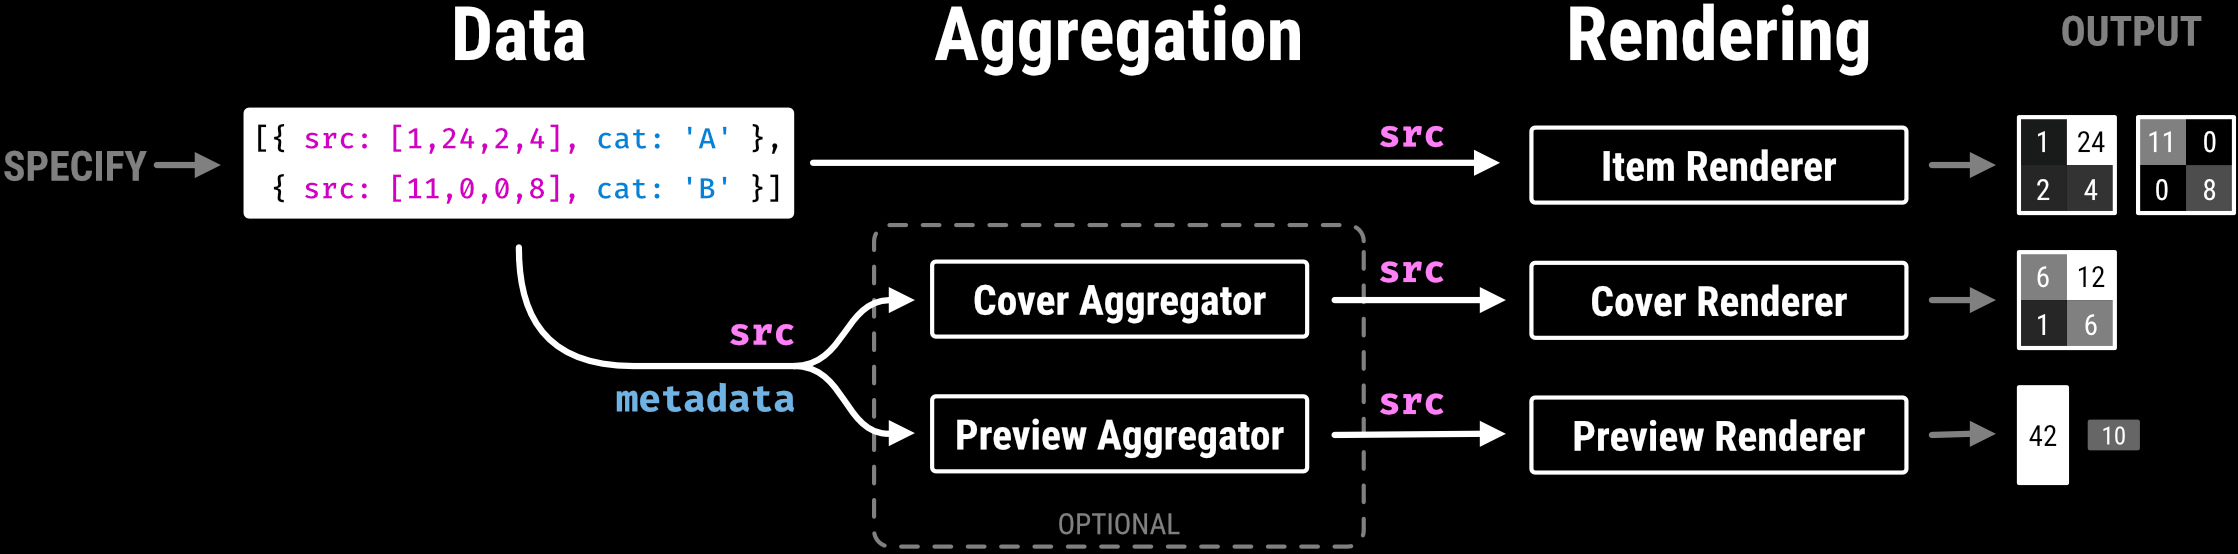
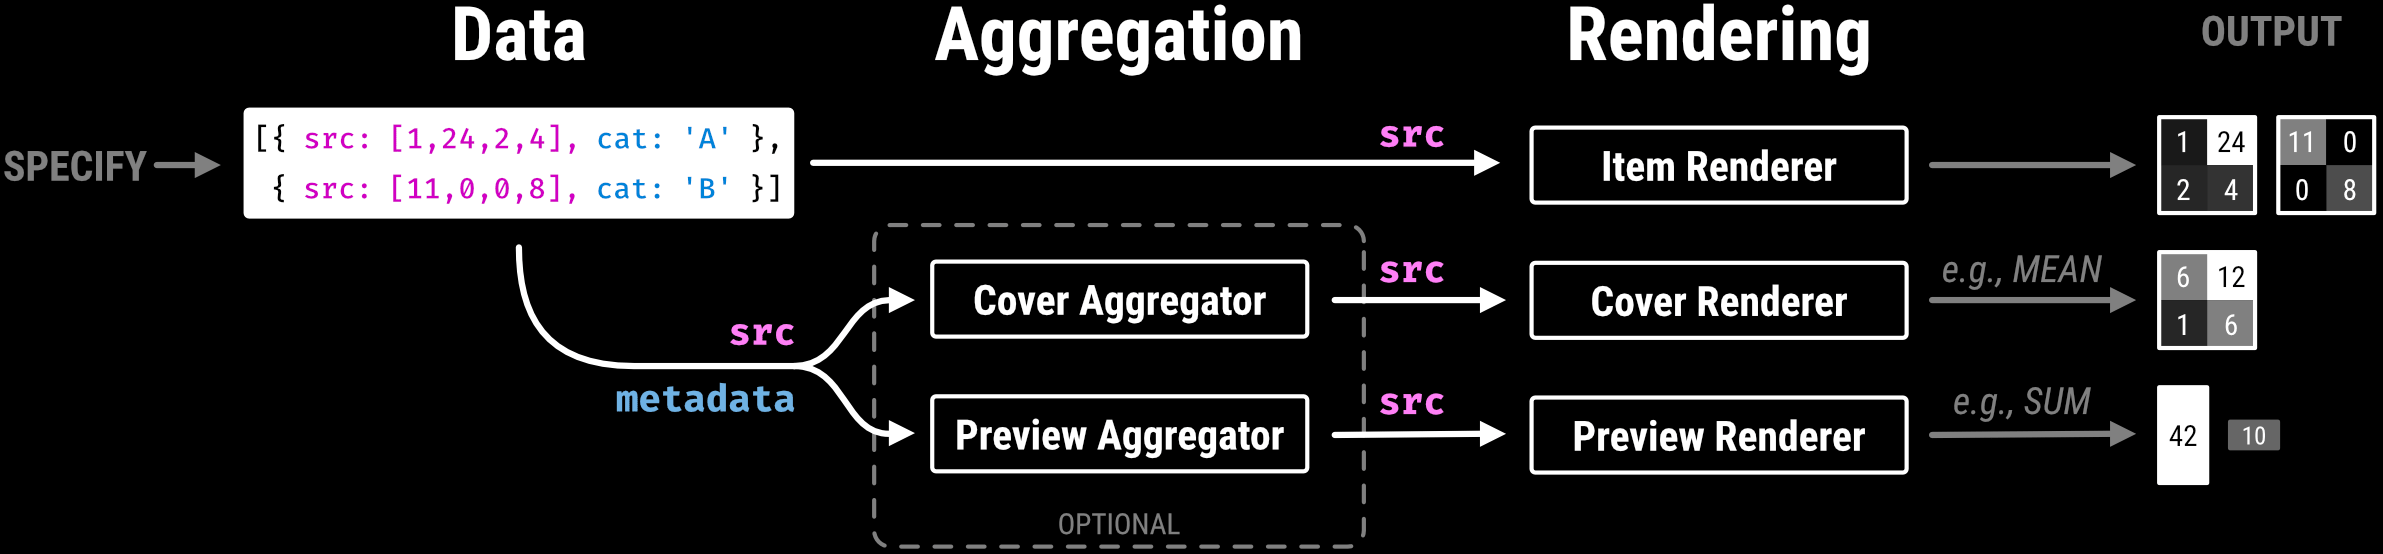
Improve documentation of the rendering pipeline
close #227

diff --git a/webpage/src/App.svelte b/webpage/src/App.svelte
@@ -293,7 +293,7 @@ const piling = createPilingJs(domElement, {
   </Headline>
   <Section>
     <div slot="center">
-      <p class="bigger justify">Piling.js is a JavaScript library to build <a href="https://piling.lekschas.de" target="_blank" rel="noreferrer noopener">visual piling interfaces</a> for exploring large collections of small multiples. Piling.js is data-agnostic and build around a declaritive view specification to avoid having to write low-level code. Being build on top of <a href="https://www.pixijs.com" target="_blank" rel="noreferrer noopener">PixiJS</a>' powerful WebGl rendering framework, Piling.js can render up to several thousand small multiples.</p>
+      <p class="bigger justify">Piling.js is a JavaScript library to build <a href="https://piling.lekschas.de" target="_blank" rel="noreferrer noopener">visual piling interfaces</a> for exploring large collections of small multiples. Piling.js is data-agnostic and build around a declarative view specification to avoid having to write low-level code. Being build on top of <a href="https://www.pixijs.com" target="_blank" rel="noreferrer noopener">PixiJS</a>' powerful WebGl rendering framework, Piling.js can render up to several thousand small multiples.</p>
     </div>
   </Section>
   <Section>
@@ -465,7 +465,7 @@ const piling = createPilingJs(domElement, {
   <Section>
     <article slot="center">
       <Headline level={3} id="rendering-pipeline" lines>Rendering Pipeline</Headline>
-      <p>To support many different pile design, Piling.js is build around the following 3-step rendering pipeline:</p>
+      <p>To support many different pile design, Piling.js is built around the following 3-step rendering pipeline:</p>
 
       <Overflow>
         <figure style="margin: 2rem 0;">
@@ -477,11 +477,13 @@ const piling = createPilingJs(domElement, {
         </figure>
       </Overflow>
 
-      <p><strong>Data:</strong> Piling.js expects the small multiples data to come in form of a list of objects. Each small multiple item is represented by an object, which must feature a <code>src</code> property and can optionally contain other metadata properties. The item <code>src</code> can come in any form as long as it's understood by the renderer.</p>
+      <p><strong>Data:</strong> Piling.js expects the small multiples data to come in the form of a list of objects. Each small multiple item is represented by an object, which must feature a <code>src</code> property and can optionally contain other metadata properties. The item <code>src</code> can come in any form as long as it's understood by the renderer.</p>
 
-      <p><strong>Aggregation:</strong> To increase the content awareness of piles, Piling.js supports rendering pile covers and item previews. The covers and previews typically show a summary of the pile and item respectively. To optain such a summary, the data as to be aggregated by a corresponding aggregator function. For instance, the cover of a pile of matrices could visualize the mean or standard deviation of the matrices. And the previews could show the column- or row-wise sum. When you think of a pile as a 3-way tensor (x-axis &times; y-axis &times; items) then the cover aggregator is expected to reduce the tensor along the <em>items</em> while the preview aggregator is expected to reduce the tensor along the <em>e-axis</em> or <em>y-axis</em> (or both).</p>
+      <p><strong>Aggregation:</strong> To increase the content awareness of piles, Piling.js supports rendering pile covers and item previews. The covers and previews typically show a summary of the pile and item respectively. To obtain such a summary, the data has to be aggregated by a corresponding aggregator function. For instance, the cover of a pile of matrices could visualize the mean or standard deviation of the matrices. And the previews could show the column- or row-wise sum. When you think of a pile as a 3D tensor (x-axis &times; y-axis &times; items) then the cover aggregator is expected to reduce the tensor along the <em>items</em> axis while the preview aggregator is expected to reduce the tensor along the <em>x-axis</em> or <em>y-axis</em> (or both).</p>
 
-      <p><strong>Rendering:</strong> Finally, the items' <code>src</code> properties are passed to a renderer function. The renderer function's task is to translate the data into a form that is renderable by PixiJS. See the accaptable <code>source</code> types of <code>PIXI.Texture</code>'s <code><a href="https://pixijs.download/dev/docs/PIXI.Texture.html#from" target="_blank" rel="noreferrer noopener">from()</a></code> and <code><a href="https://pixijs.download/dev/docs/PIXI.Texture.html#fromBuffer" target="_blank" rel="noreferrer noopener">fromBuffer()</a></code>. To get you started quickly, Piling.js provides <a href="https://piling.js.org/docs/?id=predefined-renderers">renderers for images, matrices, SVGs</a> out of the box.</p>
+      <p>Cover aggregators take <em>n</em> items and use their <code>src</code> (and potentially metadata) to output a single cover <code>src</code>, which can take any form as long as the corresponding cover renderer can interpret it. Preview renderers take a <em>single</em> item and uses its <code>src</code> (and potentially metadata) to output a single preview <code>src</code>, which can also take any form as long as the corresponding preview renderer can interpret it.</p>
+
+      <p><strong>Rendering:</strong> Finally, the items' <code>src</code> properties are passed to a renderer function. The renderer function's task is to translate the data into a form that is renderable by PixiJS. See the acceptable <code>source</code> types of <code>PIXI.Texture</code>'s <code><a href="https://pixijs.download/dev/docs/PIXI.Texture.html#from" target="_blank" rel="noreferrer noopener">from()</a></code> and <code><a href="https://pixijs.download/dev/docs/PIXI.Texture.html#fromBuffer" target="_blank" rel="noreferrer noopener">fromBuffer()</a></code>. To get you started quickly, Piling.js provides <a href="https://piling.js.org/docs/?id=predefined-renderers">renderers for images, matrices, and SVGs</a> out of the box.</p>
     </article>
   </Section>
   <Section>
@@ -521,8 +523,8 @@ const piling = createPilingJs(domElement, {
   </Section>
   <Section>
     <div slot="center">
-      <Headline level={3} id="more-resources" lines>More Resources</Headline>
-      <p>If you want to dive deeper into the design space of visual piling please take a look at <a href="https://piling.lekschas.de" target="_blank" rel="noreferrer noopener">piling.lekschas.de</a> and our publication.</p>
+      <Headline level={3} id="publication" lines>Publication</Headline>
+      <p>If you want to learn more about the conceptual aspects and the design space of visual piling, please take a look at <a href="https://piling.lekschas.de" target="_blank" rel="noreferrer noopener">piling.lekschas.de</a> and our publication:</p>
       <Publication>
         <a href="https://vcg.seas.harvard.edu/pubs/piling" target="_blank" slot="title">A Generic Framework and Library for Exploration of Small Multiples through Interactive Piling</a>
         <ol slot="authors">
@@ -533,10 +535,12 @@ const piling = createPilingJs(domElement, {
           <li>Benjamin Bach</li>
           <li>Hanspeter Pfister</li>
         </ol>
-        <span slot="journal">To appear in IEEE Transactions on Visualization and Computer Graphics</span>
+        <span slot="journal">IEEE Transactions on Visualization and Computer Graphics</span>
         <span slot="series">InfoVis '20</span>
-        <span slot="year">2020</span>
+        <span slot="year">2021</span>
+        <span slot="award"><Badge text="IEEE InfoVis Best Paper Honorable Mention" icon="award" /></span>
       </Publication>
+      <p>If you use Piling.js in your own research, we would be super happy if you could cite our above-mentioned publications. Thanks a lot!</p>
     </div>
   </Section>
 </Main>

diff --git a/webpage/src/Publication.svelte b/webpage/src/Publication.svelte
@@ -3,10 +3,17 @@
 </script>
 
 <style>
+  article {
+    border-left: 2px solid white;
+    margin: 1em 0;
+    padding: 0.5em;
+    background: rgba(255, 255, 255, 0.1);
+  }
+
   h4 {
     font-size: 1.125em;
     line-height: 1.25em;
-    margin: 1em 0 0 0;
+    margin: 0;
   }
 
   p {
@@ -108,6 +115,9 @@
       </span>
     {/if}
   </p>
+  {#if slots.award}
+    <slot name="award" />
+  {/if}
 </article>
 
 <!-- To avoid annoying warnings: https://github.com/sveltejs/svelte/issues/4546#issuecomment-626348879 -->
